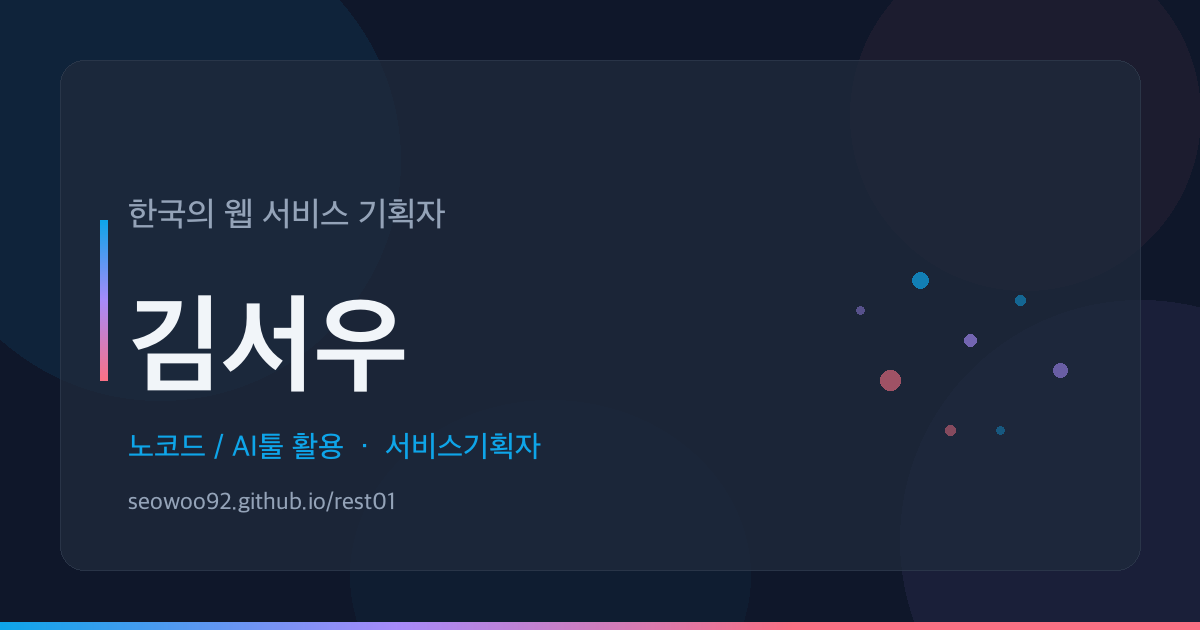
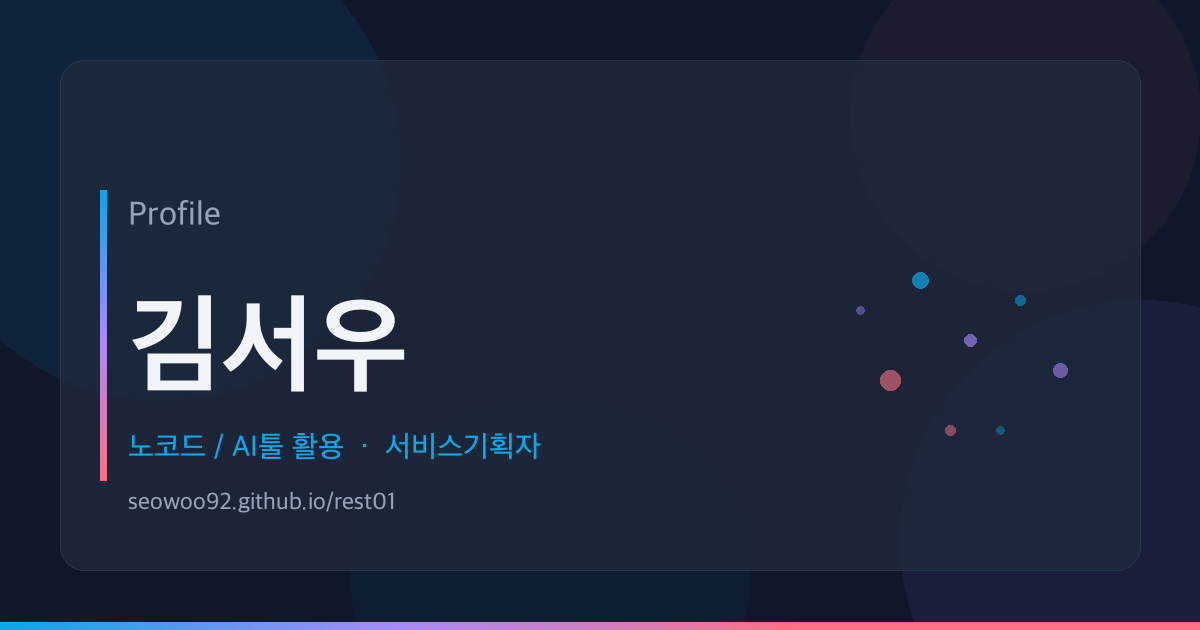
OG 이미지 수정 - 사이드바 위치 조정 및 텍스트 변경
그라디언트 바 y:220→190, h:160→290으로 텍스트 블록과 정렬.
'한국의 웹 서비스 기획자' → 'Profile' 변경.

Changed region(s): [[0.0617, 0.3016, 0.37, 0.3619], [0.0617, 0.4524, 0.0925, 0.754]]

diff --git a/generate_og.py b/generate_og.py
@@ -1,0 +1,134 @@
+from PIL import Image, ImageDraw, ImageFont
+
+W, H = 1200, 630
+
+BG       = (15,  23,  42)
+SURFACE  = (30,  41,  59)
+MAIN     = (14,  165, 233)   # #0EA5E9 sky blue
+POINT    = (167, 139, 250)   # #A78BFA lavender
+ACCENT   = (251, 113, 133)   # #FB7185 coral pink
+TEXT_HI  = (241, 245, 249)   # #f1f5f9
+TEXT_MID = (148, 163, 184)   # #94a3b8
+TEXT_LO  = (71,  85,  105)   # #475569
+
+# ── 배경 ──────────────────────────────────────
+base = Image.new('RGB', (W, H), BG)
+
+# 장식 원 (반투명 오버레이)
+overlay = Image.new('RGBA', (W, H), (0, 0, 0, 0))
+od = ImageDraw.Draw(overlay)
+od.ellipse([-80, -80, 400, 400],   fill=(*MAIN,  22))
+od.ellipse([900,  300, 1380, 780], fill=(*POINT, 18))
+od.ellipse([850,  -60, 1200, 290], fill=(*ACCENT,14))
+od.ellipse([350,  400, 750,  750], fill=(*MAIN,  10))
+base = Image.alpha_composite(base.convert('RGBA'), overlay).convert('RGB')
+
+draw = ImageDraw.Draw(base, 'RGBA')
+
+# ── 카드 패널 ──────────────────────────────────
+draw.rounded_rectangle([60, 60, W-60, H-60], radius=24,
+                        fill=(*SURFACE, 200), outline=(*TEXT_LO, 80), width=1)
+
+# ── 왼쪽 그라디언트 세로 바 ──────────────────────
+bar_x, bar_y, bar_h, bar_w = 100, 190, 290, 6
+colors = [MAIN, POINT, ACCENT]
+for i in range(bar_h):
+    t = i / bar_h
+    if t < 0.5:
+        c = tuple(int(colors[0][j] + (colors[1][j]-colors[0][j]) * (t/0.5)) for j in range(3))
+    else:
+        c = tuple(int(colors[1][j] + (colors[2][j]-colors[1][j]) * ((t-0.5)/0.5)) for j in range(3))
+    draw.rectangle([bar_x, bar_y+i, bar_x+bar_w, bar_y+i+1], fill=c)
+
+# ── 폰트 ──────────────────────────────────────
+def load_font(size, bold=False):
+    paths = [
+        "/System/Library/Fonts/AppleSDGothicNeo.ttc",
+        "/System/Library/Fonts/Supplemental/AppleGothic.ttf",
+        "/Library/Fonts/NotoSansCJKkr-Regular.otf",
+    ]
+    idx = 7 if bold else 2
+    for p in paths:
+        try:
+            return ImageFont.truetype(p, size, index=idx)
+        except Exception:
+            try:
+                return ImageFont.truetype(p, size)
+            except Exception:
+                continue
+    return ImageFont.load_default()
+
+f_sub   = load_font(34)
+f_name  = load_font(108, bold=True)
+f_role  = load_font(30)
+f_url   = load_font(24)
+
+# ── 텍스트 ──────────────────────────────────────
+tx = 128
+
+# 서브 타이틀
+draw.text((tx, 195), "Profile", font=f_sub, fill=TEXT_MID)
+
+# 이름 (그라디언트 효과 — 흰색)
+name_y = 290
+draw.text((tx, name_y), "김서우", font=f_name, fill=TEXT_HI)
+
+# 역할
+draw.text((tx, 430), "노코드 / AI툴 활용  ·  서비스기획자", font=f_role, fill=(*MAIN, 230))
+
+# URL
+draw.text((tx, 488), "seowoo92.github.io/rest01", font=f_url, fill=(*TEXT_MID, 160))
+
+# ── 오른쪽 장식 도트 클러스터 ──────────────────────
+import math
+dots = [
+    (920, 280, 8,  MAIN,   180),
+    (970, 340, 6,  POINT,  160),
+    (890, 380, 10, ACCENT, 150),
+    (1020,300, 5,  MAIN,   130),
+    (1060,370, 7,  POINT,  140),
+    (950, 430, 5,  ACCENT, 120),
+    (1000,430, 4,  MAIN,   100),
+    (860, 310, 4,  POINT,  110),
+]
+for (x, y, r, col, alpha) in dots:
+    draw.ellipse([x-r, y-r, x+r, y+r], fill=(*col, alpha))
+
+# ── 하단 그라디언트 라인 ──────────────────────────
+for x in range(W):
+    t = x / W
+    if t < 0.33:
+        c = tuple(int(MAIN[j]  + (POINT[j]  - MAIN[j])  * (t/0.33))  for j in range(3))
+    elif t < 0.66:
+        c = tuple(int(POINT[j] + (ACCENT[j] - POINT[j]) * ((t-0.33)/0.33)) for j in range(3))
+    else:
+        c = ACCENT
+    draw.rectangle([x, H-8, x+1, H], fill=c)
+
+base.save("images/og-image.png", "PNG")
+print("✅ og-image.png 생성 완료")
+
+# ── 파비콘 (32×32, 64×64) ─────────────────────
+for size in [16, 32, 64]:
+    fav = Image.new('RGB', (size, size), BG)
+    fd  = ImageDraw.Draw(fav, 'RGBA')
+
+    # 배경 원
+    fd.ellipse([0, 0, size, size], fill=MAIN)
+
+    # 'K' 텍스트
+    try:
+        ff = load_font(int(size * 0.58), bold=True)
+        bbox = fd.textbbox((0, 0), "K", font=ff)
+        tw, th = bbox[2] - bbox[0], bbox[3] - bbox[1]
+        fd.text(((size-tw)//2 - bbox[0], (size-th)//2 - bbox[1]), "K",
+                font=ff, fill=(255, 255, 255))
+    except Exception:
+        pass
+    fav.save(f"images/favicon-{size}.png", "PNG")
+
+# .ico 생성 (16, 32 포함)
+ico16 = Image.open("images/favicon-16.png")
+ico32 = Image.open("images/favicon-32.png")
+ico32.save("favicon.ico", format="ICO", sizes=[(16,16),(32,32)])
+print("✅ favicon.ico 생성 완료")
